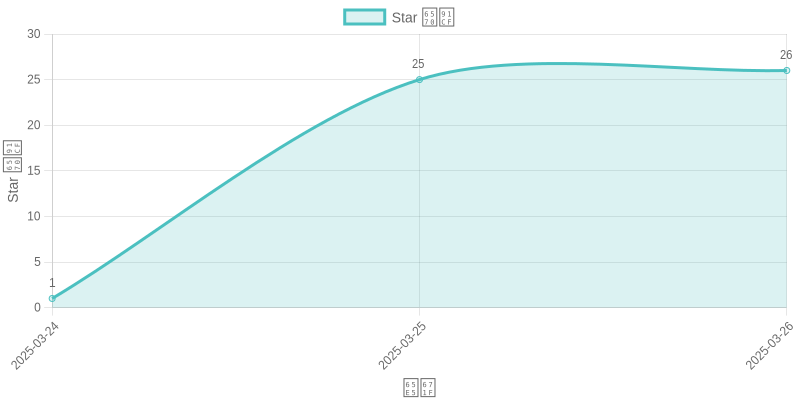
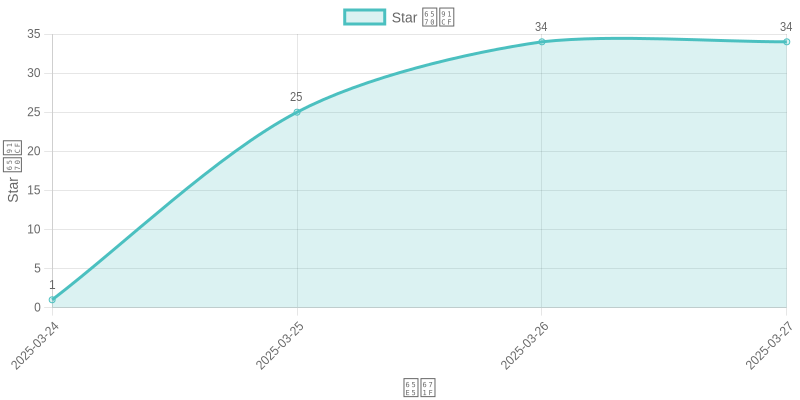
Update star chart and README with new image version

diff --git a/README.md b/README.md
@@ -130,7 +130,7 @@
 
 欢迎提交 Issue 或 Pull Request！如果您有任何改进建议或新功能需求，请随时联系我。
 
-![Star 增长趋势](images/star-chart.png?v=1742958344?v=1742958344?v=1742920064?v=1742900142?v=1742899904 "Star 增长趋势")
+![Star 增长趋势](images/star-chart.png?v=1743044833?v=1743044833?v=1742958344?v=1742920064?v=1742900142?v=1742899904 "Star 增长趋势")
 
 ## 许可证
 
